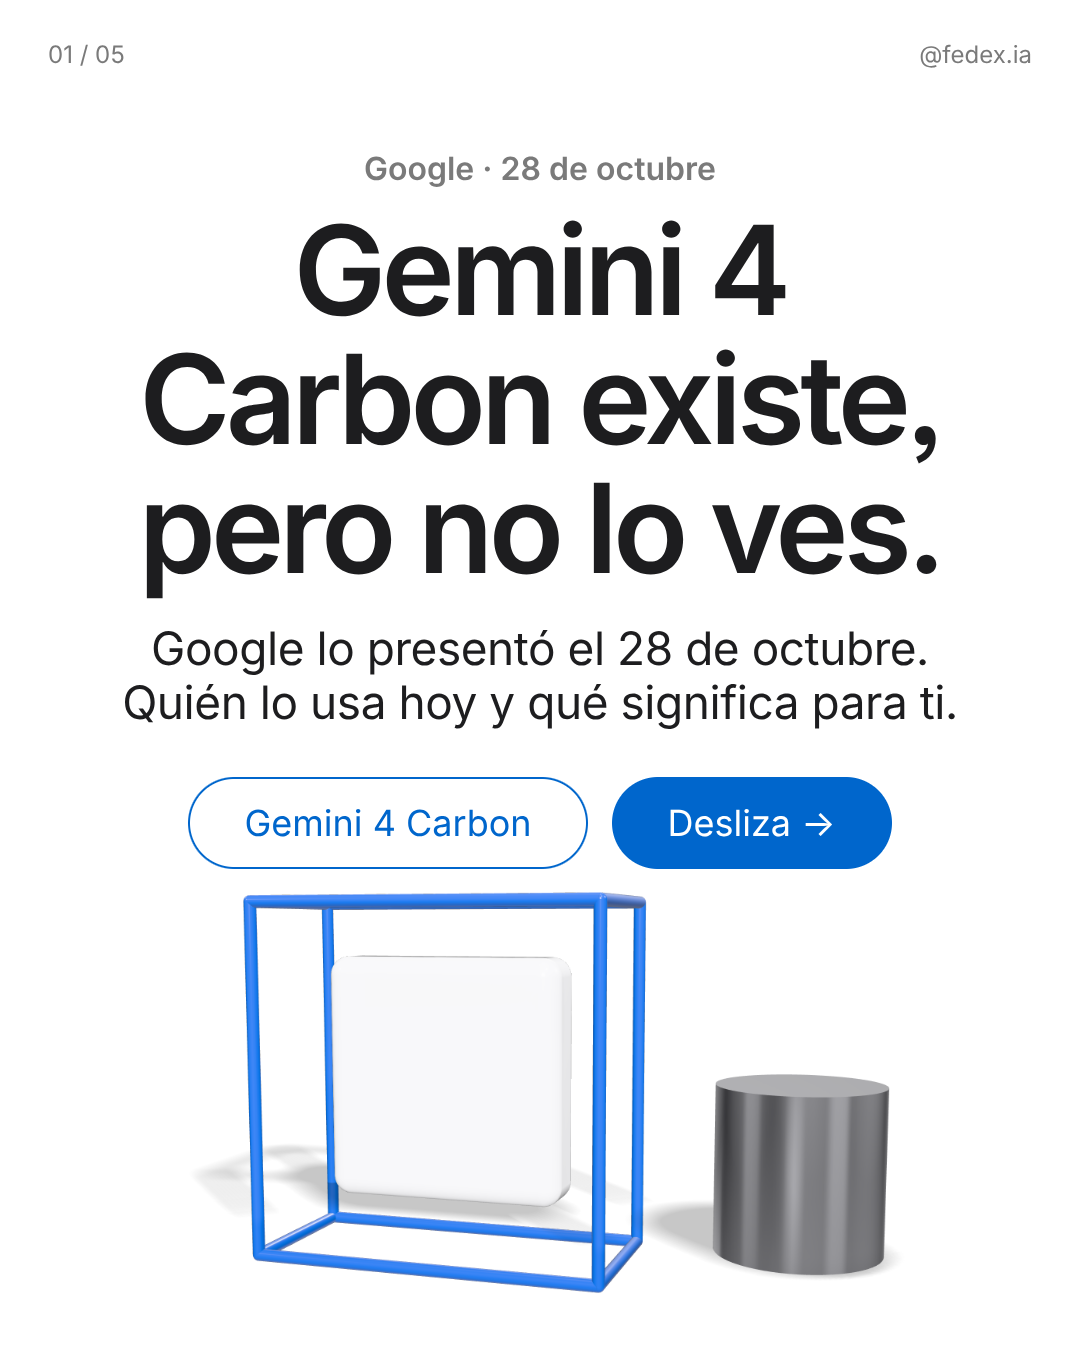
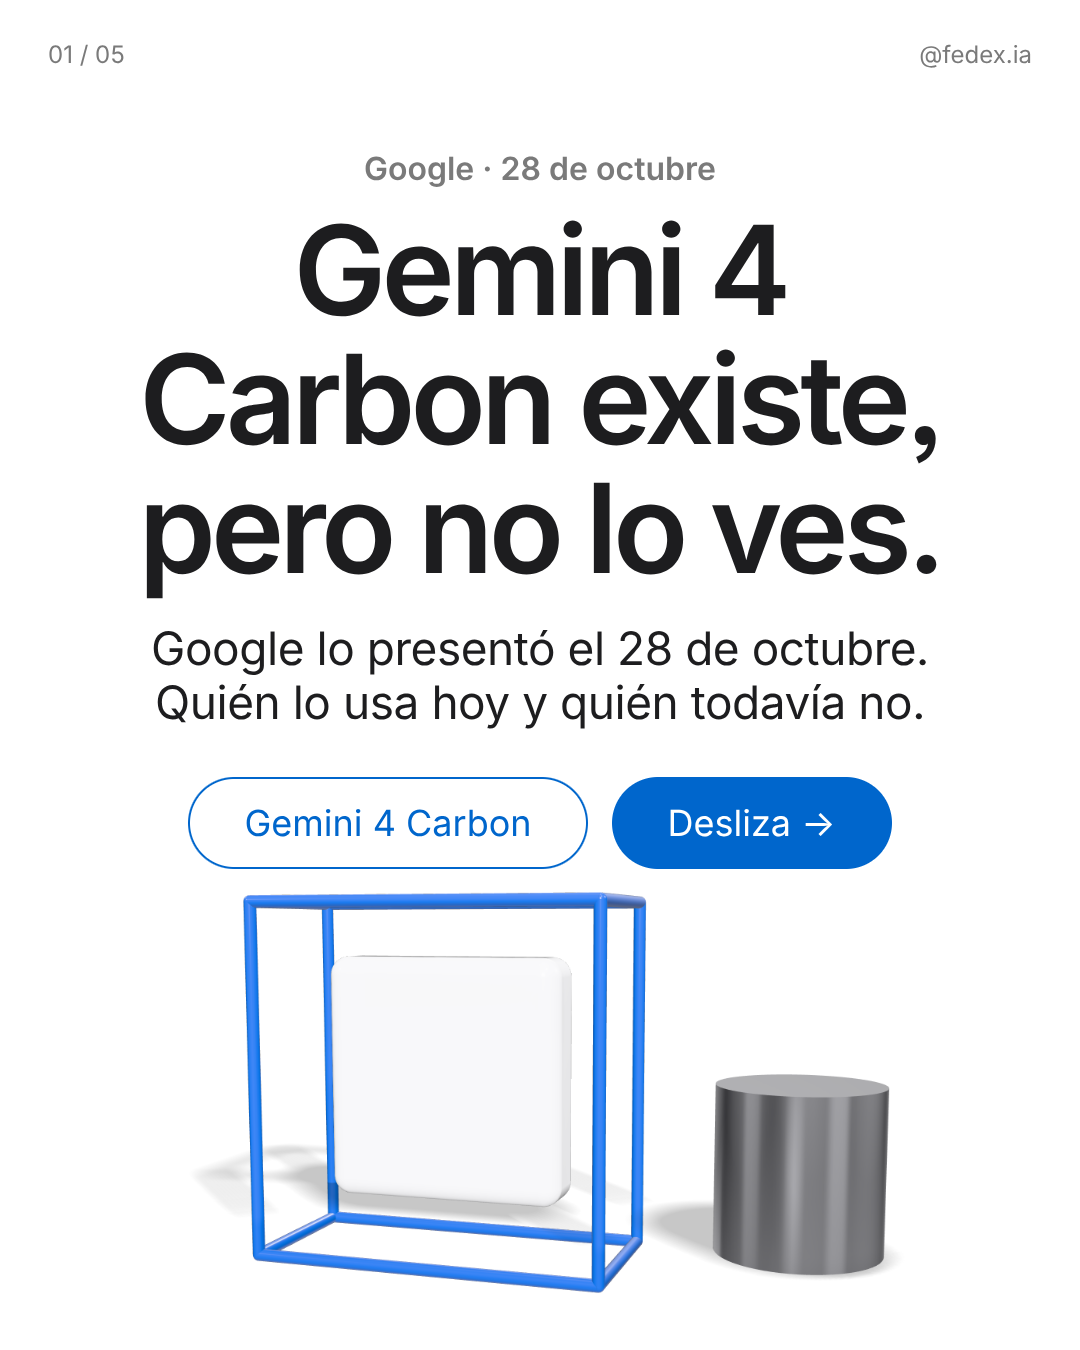
Borrador 2026-10-29: voseo y bajada sin 'qué significa para ti'
Claude-Session: https://claude.ai/code/session_01RSDjsJMA1CC6Hr4fewB6M8

Changed region(s): [[0.1222, 0.4978, 0.8861, 0.56]]

diff --git a/diario/2026-10-29-diario-gemini-4-carbon-acceso-limitado/copy.md b/diario/2026-10-29-diario-gemini-4-carbon-acceso-limitado/copy.md
@@ -11,24 +11,24 @@ Estado: pendiente de aprobación
 
 ## Hooks
 1. Gemini 4 Carbon existe, pero no lo ves. (usado)
-2. Gemini 4 Carbon existe, pero no lo tienes. (nota 87 en Dexter; Fede eligió «no lo ves», nota 71)
+2. Gemini 4 Carbon existe, pero no lo tenés. (Fede eligió «no lo ves», nota 71)
 
 ## Slides
-1. Portada (blanco). «Gemini 4 Carbon existe, pero no lo ves.» Bajada: «Google lo presentó el 28 de octubre. Quién lo usa hoy y qué significa para ti.» Pastillas: Gemini 4 Carbon / Desliza →. Objeto 3D: placa perla dentro de un marco azul y un cilindro plateado. Alt: Ilustración 3D de una placa perla dentro de un marco azul, al lado de un cilindro plateado. Texto: Gemini 4 Carbon ya existe, pero no lo tienes.
+1. Portada (blanco). «Gemini 4 Carbon existe, pero no lo ves.» Bajada: «Google lo presentó el 28 de octubre. Quién lo usa hoy y quién todavía no.» Pastillas: Gemini 4 Carbon / Desliza →. Objeto 3D: placa perla dentro de un marco azul y un cilindro plateado. Alt: Ilustración 3D de una placa perla dentro de un marco azul, al lado de un cilindro plateado. Texto: Gemini 4 Carbon ya existe, pero no lo tenés.
 2. (oscuro) «Google presenta Gemini 4 Carbon.» Cuerpo: «Según Google, es su modelo más fuerte en ciberseguridad y en tareas largas de varios pasos, como arreglar errores en código grande. Llega dos semanas después de Gemini 4 Argon.» Objeto: tres cajas en escalera, la más alta azul. Alt: Ilustración 3D de tres cajas perla apiladas en escalera, la más alta en azul. Texto: Google presenta Gemini 4 Carbon.
 3. (gris) «Hoy solo lo usan equipos de seguridad.» Cuerpo: «Google lo abrió a un grupo de defensores de ciberseguridad y sumará socios de a poco. Para el resto dice «lo antes posible», sin fecha. No especifica en qué países está disponible.» Objeto: fila de esferas plateadas con una azul al frente. Alt: Ilustración 3D de una fila de esferas plateadas con una sola esfera azul al frente. Texto: Hoy solo lo usan equipos de seguridad.
-4. (oscuro) «Para ti, por ahora, es una señal.» Cuerpo: «Todavía no está en la app de Gemini ni en la API. Google anunció un precio inicial de 2 dólares por millón de tokens de entrada y 10 de salida; después sube a 4 y 20.» Objeto: dos pilas de discos, la última de cada pila azul. Alt: Ilustración 3D de dos pilas de discos plateados, una baja y otra alta con el último disco azul. Texto: Para ti, por ahora, es una señal.
-5. Cierre (blanco). «¿Qué le pedirías primero a Carbon?» Cuerpo: «Guarda el post para volver cuando Google abra el acceso.» Pastillas: Seguí a @fedex.ia / Guardar. Fuente: blog.google. Objeto: cierre del kit. Alt: Ilustración 3D de un marcador azul junto a una tarjeta perla. Texto: ¿Qué le pedirías primero a Carbon?
+4. (oscuro) «Para vos, por ahora, es una señal.» Cuerpo: «Todavía no está en la app de Gemini ni en la API. Google anunció un precio inicial de 2 dólares por millón de tokens de entrada y 10 de salida; después sube a 4 y 20.» Objeto: dos pilas de discos, la última de cada pila azul. Alt: Ilustración 3D de dos pilas de discos plateados, una baja y otra alta con el último disco azul. Texto: Para vos, por ahora, es una señal.
+5. Cierre (blanco). «¿Qué le pedirías primero a Carbon?» Cuerpo: «Guardá el post para volver cuando Google abra el acceso.» Pastillas: Seguí a @fedex.ia / Guardar. Fuente: blog.google. Objeto: cierre del kit. Alt: Ilustración 3D de un marcador azul junto a una tarjeta perla. Texto: ¿Qué le pedirías primero a Carbon?
 
 ## Caption para copiar (131 palabras + 5 hashtags)
 ```text
 Google presentó el 28 de octubre Gemini 4 Carbon, su modelo más fuerte según la propia empresa. Está pensado para ciberseguridad y para tareas largas de varios pasos, como encontrar y arreglar errores en código grande.
 
-Hoy no puedes usarlo. Google lo dio a un grupo de equipos de seguridad y lo abrirá de a poco a más socios. A desarrolladores, empresas y usuarios les llegará «lo antes posible», sin fecha. La empresa no especifica en qué países está disponible.
+Hoy no podés usarlo. Google lo dio a un grupo de equipos de seguridad y lo abrirá de a poco a más socios. A desarrolladores, empresas y usuarios les llegará «lo antes posible», sin fecha. La empresa no especifica en qué países está disponible.
 
 El precio inicial anunciado es de 2 dólares por millón de tokens de entrada y 10 de salida. Después sube a 4 y 20.
 
-Si usas Gemini en tu trabajo, esta semana no cambia nada. Guarda el post para volver cuando Google abra el acceso y sigue a @fedex.ia para enterarte.
+Si usás Gemini en tu trabajo, esta semana no cambia nada. Guardá el post para volver cuando Google abra el acceso y seguí a @fedex.ia para enterarte.
 
 #InteligenciaArtificial #NoticiasIA #IAenEspañol #Gemini #Google
 ```
